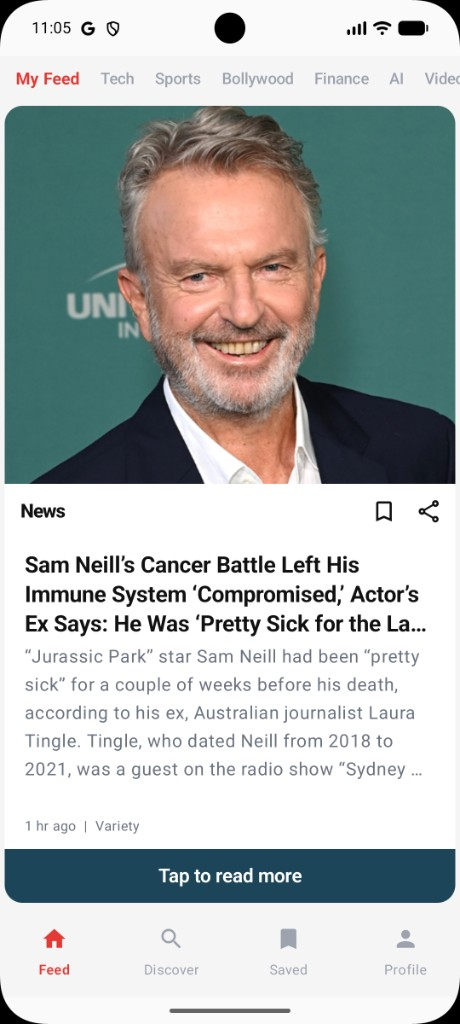
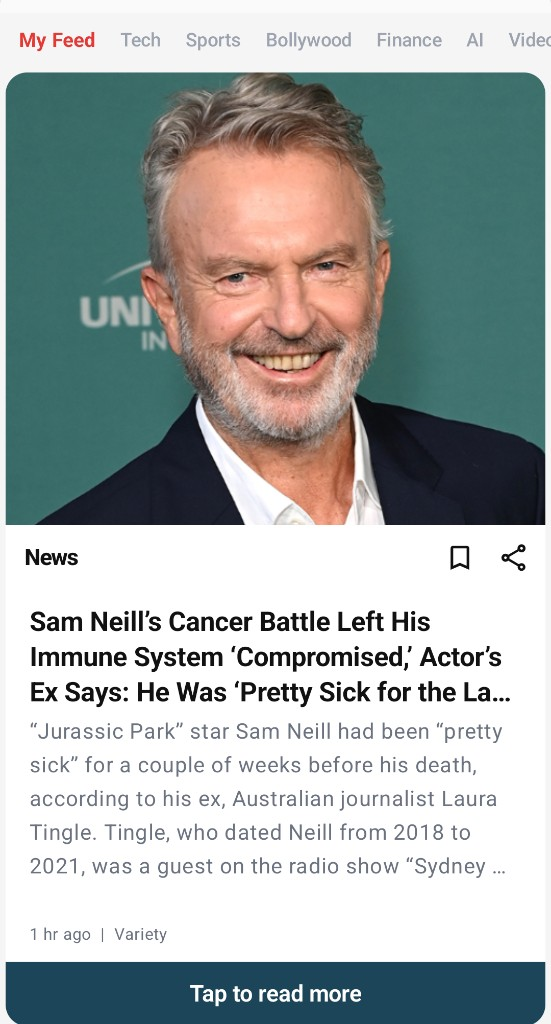
Replace homepage hero with the new app feed screenshot.
Use the attached cropped feed image and matching 551×1024 aspect ratio.

diff --git a/css/styles.css b/css/styles.css
@@ -175,16 +175,17 @@ a:hover {
 
 .phone-frame {
   --phone-max-h: calc(100dvh - var(--header-height) - 5rem);
-  --phone-max-w: min(260px, 68vw);
-  /* Scale by the tighter limit so ratio stays 460×1024 — never crops the screenshot */
-  width: min(var(--phone-max-w), calc(var(--phone-max-h) * 460 / 1024));
-  aspect-ratio: 460 / 1024;
+  --phone-max-w: min(280px, 70vw);
+  /* Scale by the tighter limit so ratio stays 551×1024 — full image visible */
+  width: min(var(--phone-max-w), calc(var(--phone-max-h) * 551 / 1024));
+  aspect-ratio: 551 / 1024;
   max-height: var(--phone-max-h);
-  background: #000;
-  border-radius: clamp(18px, 8%, 28px);
+  background: #fff;
+  border-radius: clamp(18px, 7%, 24px);
   overflow: hidden;
   isolation: isolate;
   transform: translateZ(0);
+  padding: 0;
   box-shadow:
     0 22px 44px -12px rgba(227, 6, 19, 0.2),
     0 10px 20px rgba(0, 0, 0, 0.16);
@@ -198,9 +199,9 @@ a:hover {
   max-width: none;
   max-height: none;
   object-fit: cover;
-  object-position: center;
+  object-position: center top;
   border-radius: 0;
-  background: transparent;
+  background: #fff;
 }
 
 /* Hero copy */

diff --git a/index.html b/index.html
@@ -46,7 +46,7 @@
               src="assets/app-screenshot.jpg"
               alt="EyeNewz Android app — My Feed with short news summaries"
               class="phone-screen-image"
-              width="460"
+              width="551"
               height="1024"
             />
           </div>
